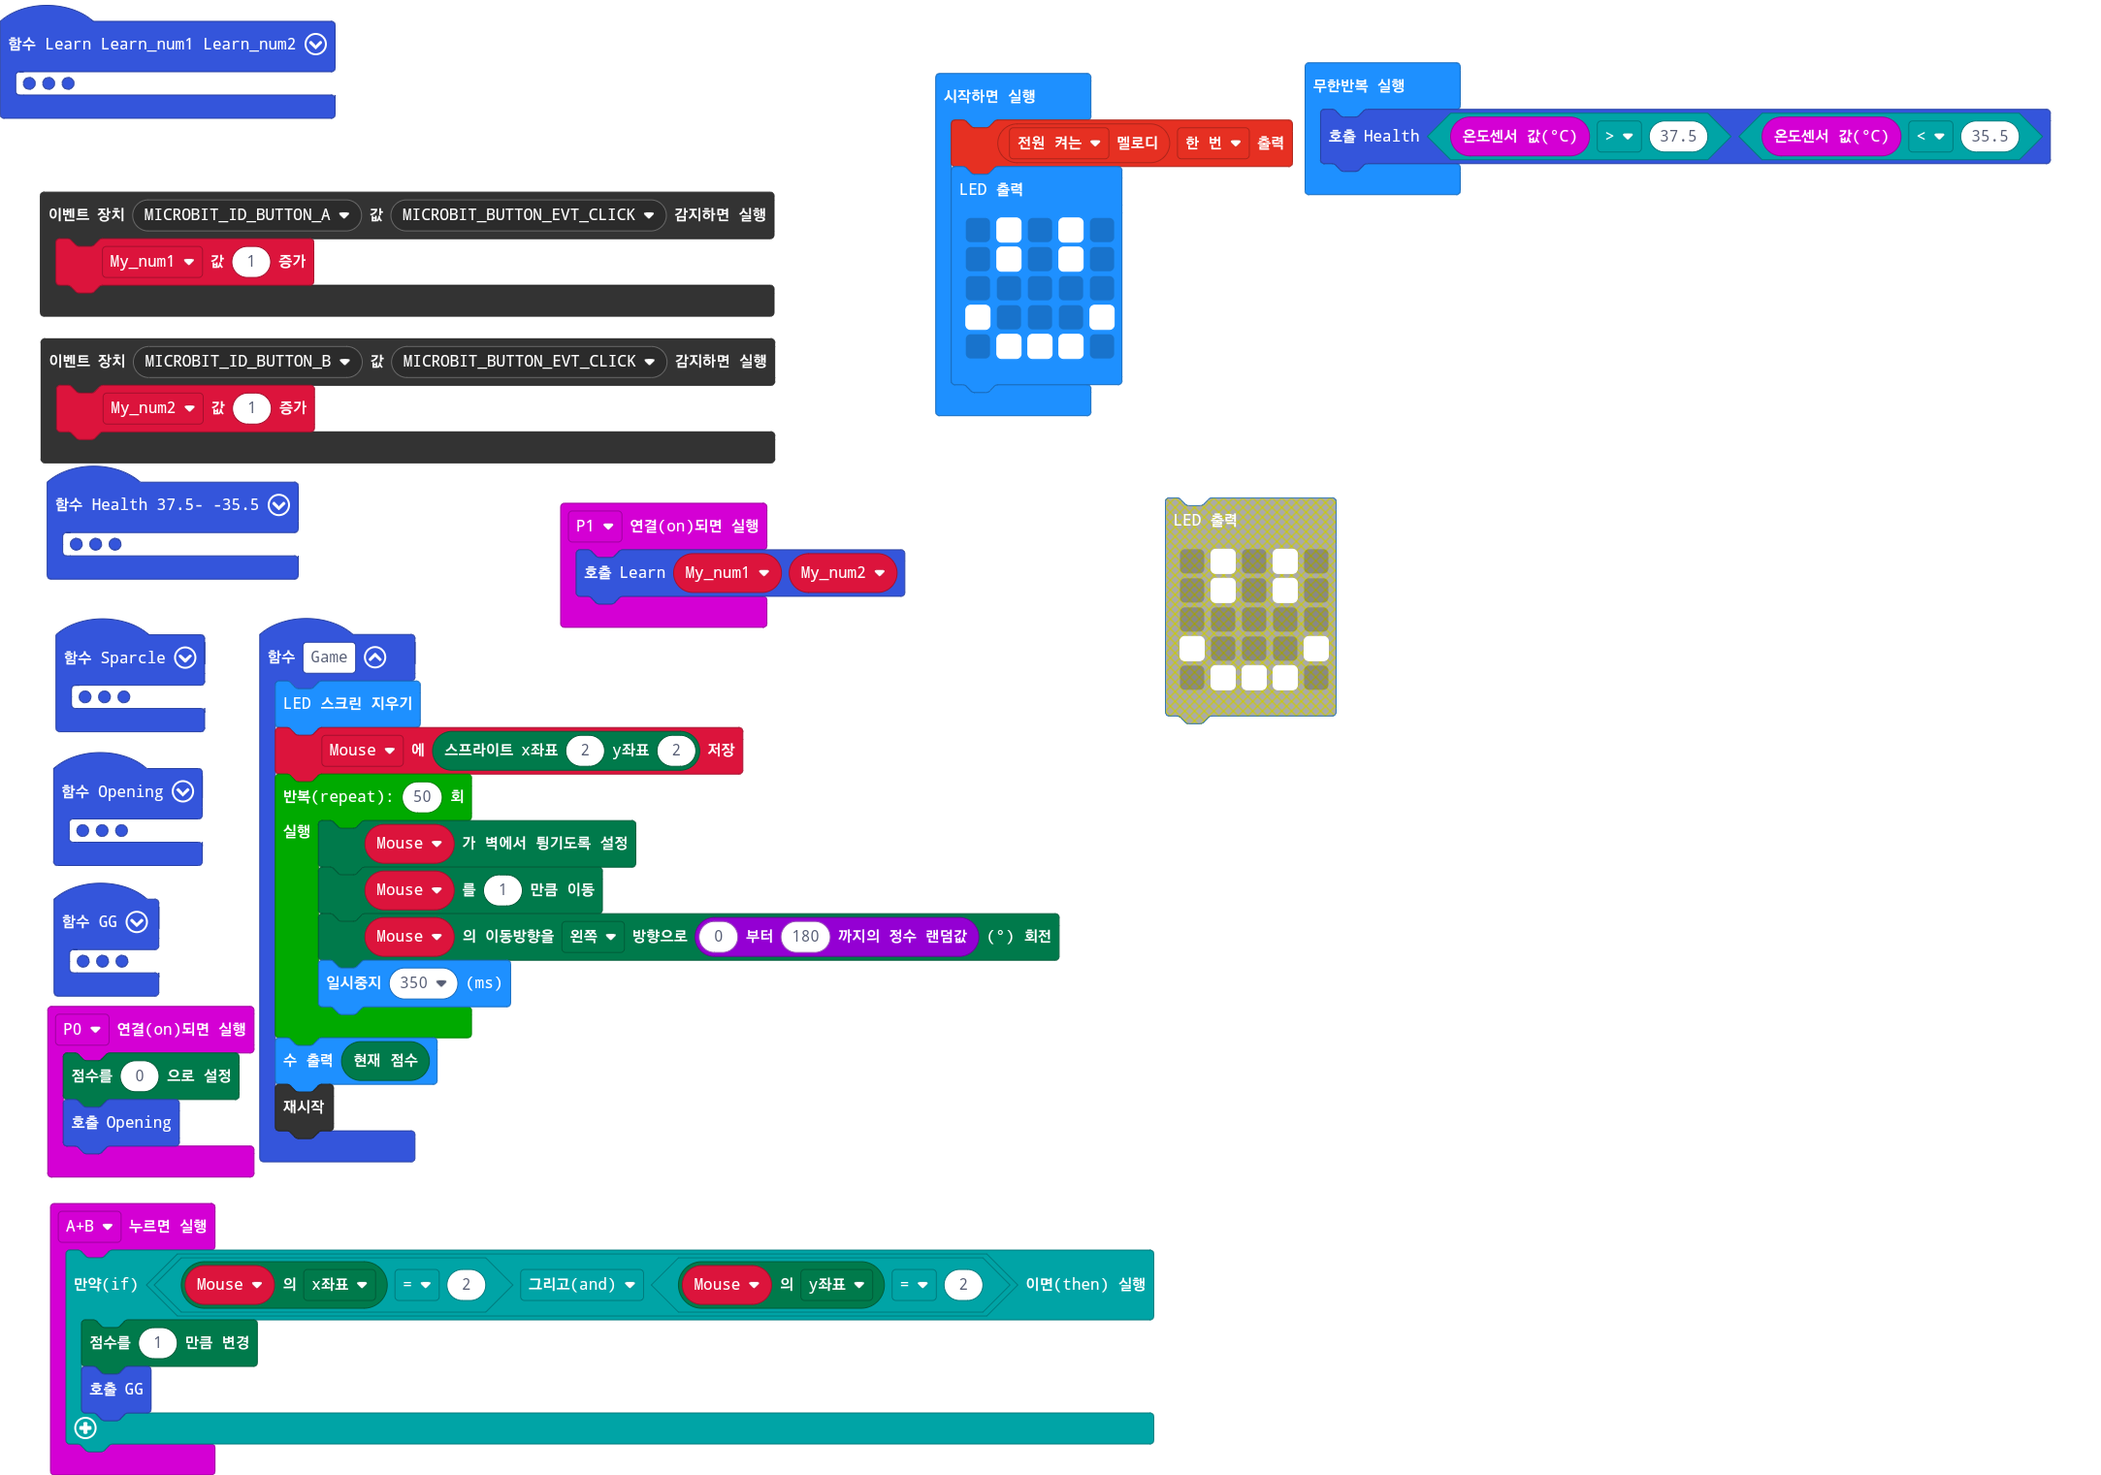
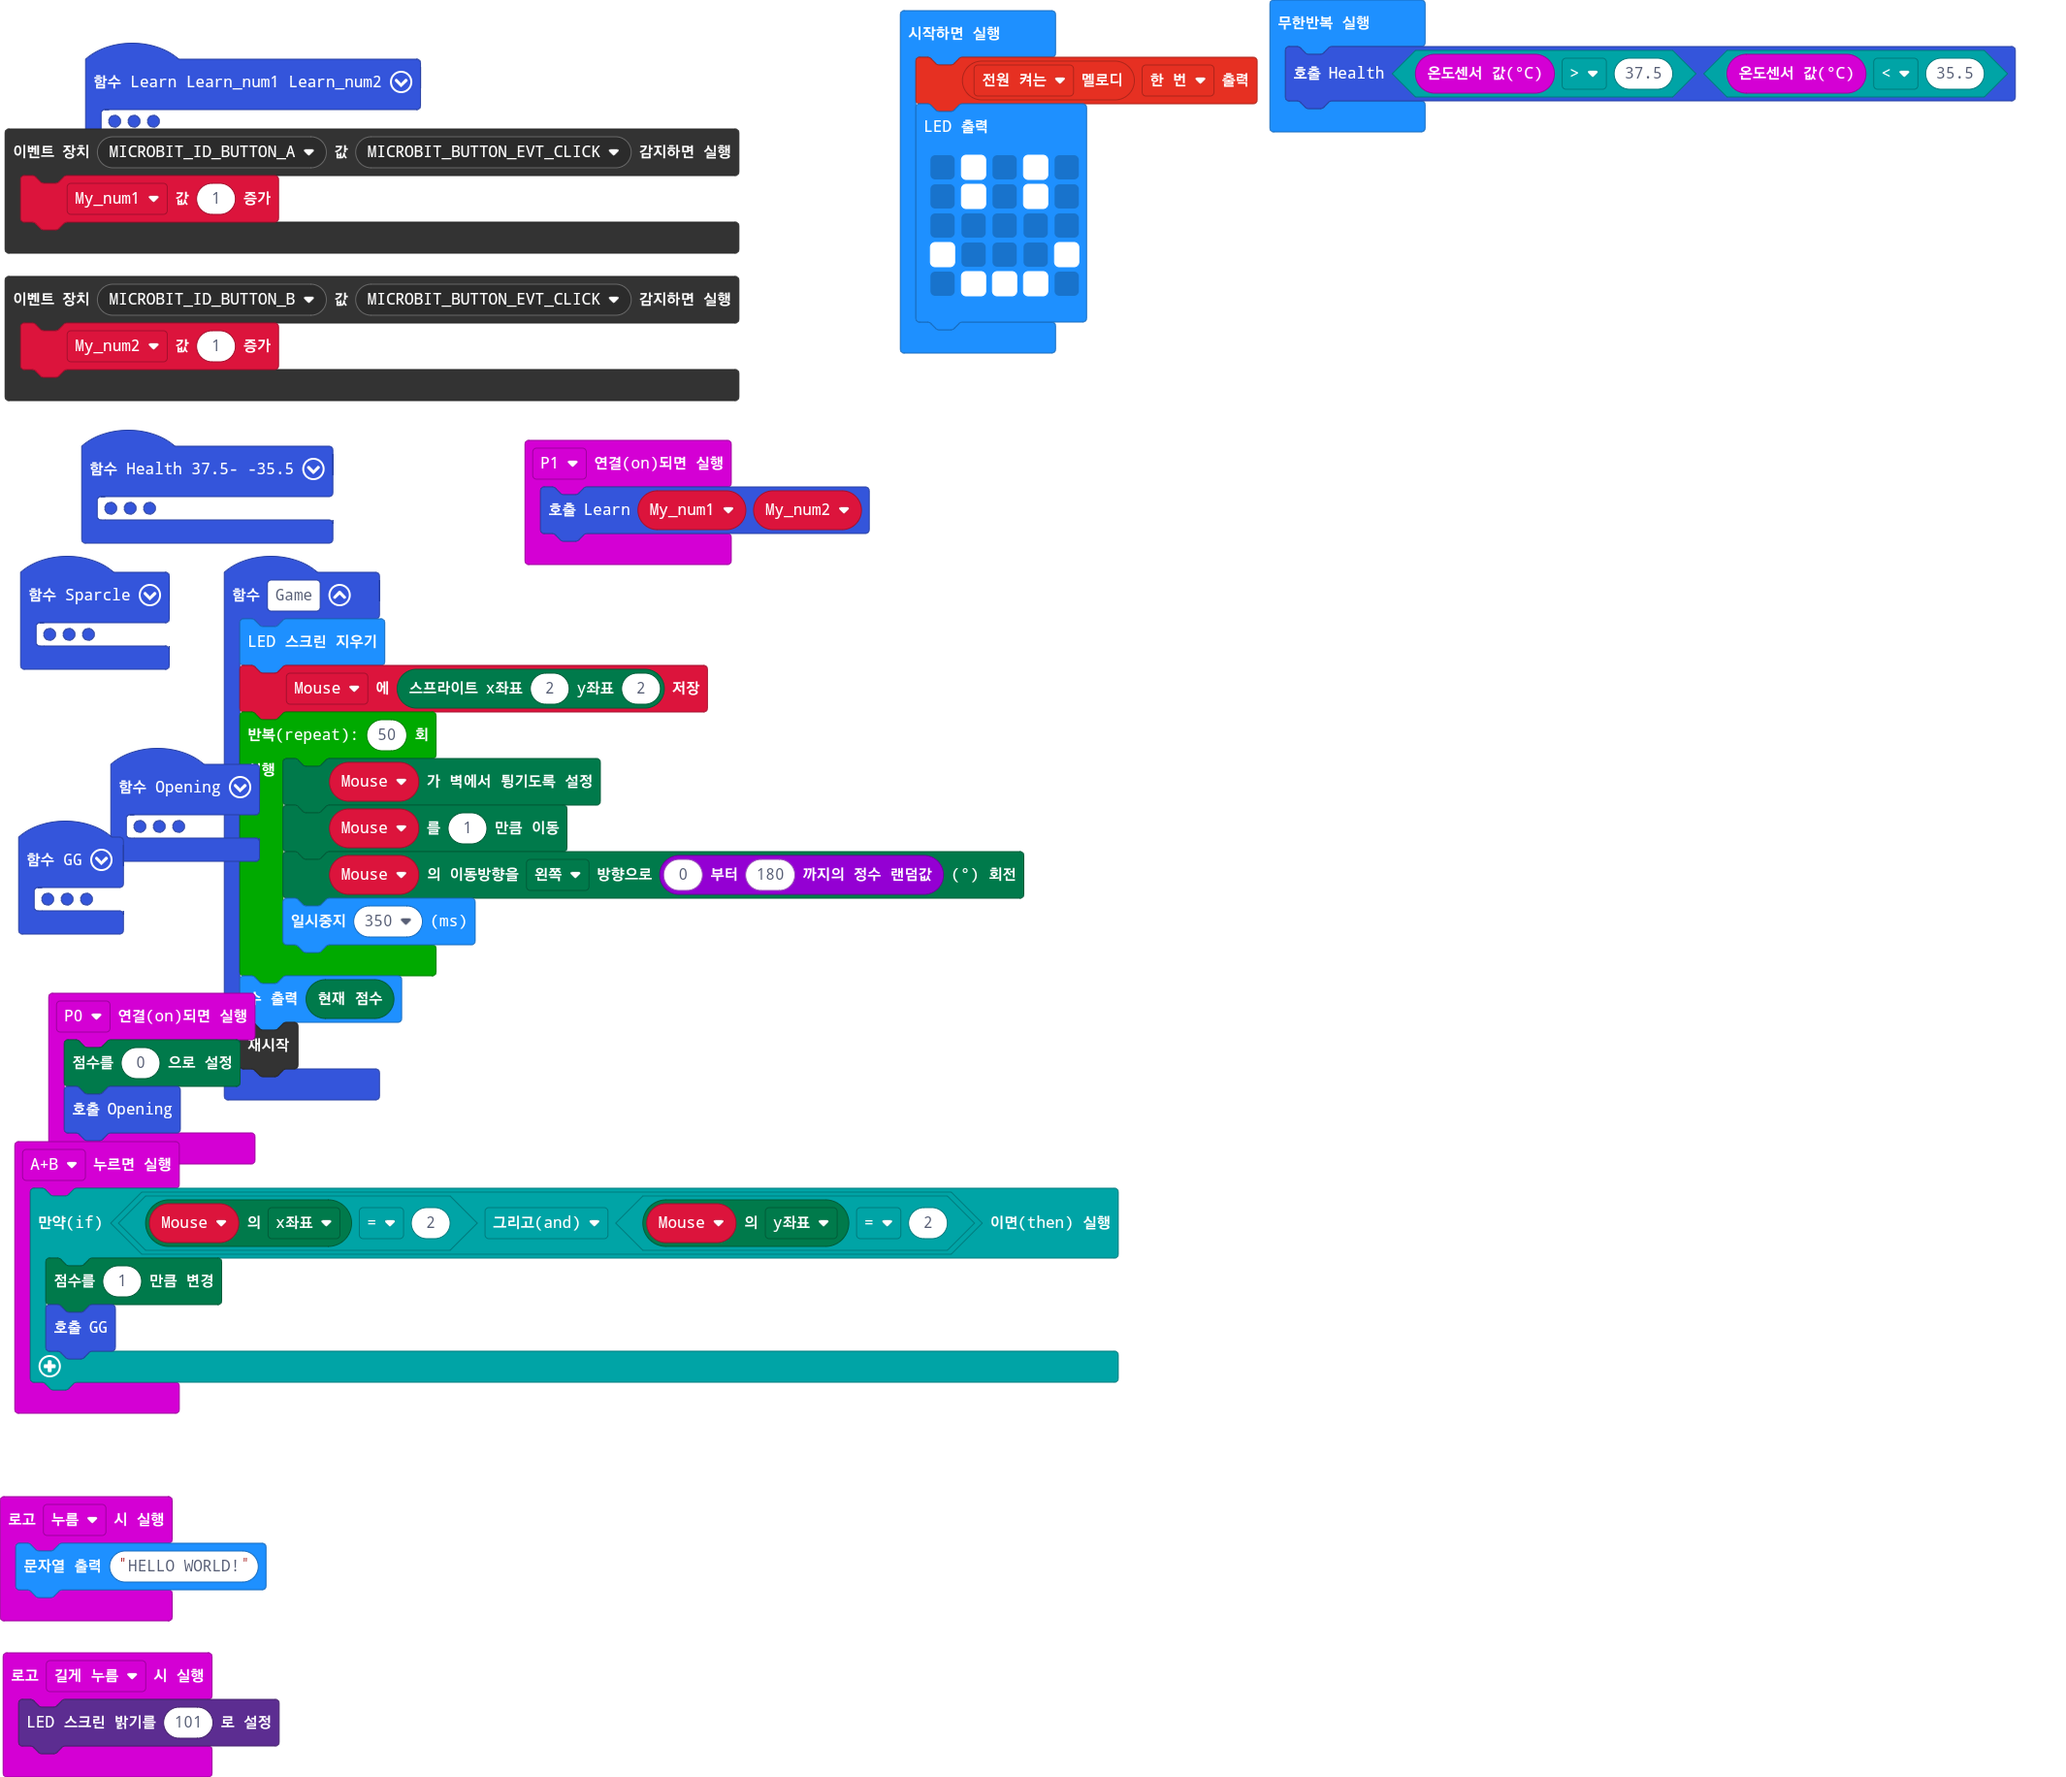
pxt.json, main.blocks, main.ts, main.py 업데이트하기

diff --git a/main.ts b/main.ts
@@ -14,6 +14,9 @@ function Game () {
     basic.showNumber(game.score())
     control.reset()
 }
+input.onLogoEvent(TouchButtonEvent.Pressed, function () {
+    basic.showString("HELLO WORLD!")
+})
 function Sparcle () {
     for (let index = 0; index < 2; index++) {
         soundExpression.sad.playUntilDone()
@@ -80,6 +83,8 @@ function Opening () {
     Game()
 }
 function Learn (Learn_num1: number, Learn_num2: number) {
+    My_num1 = 0
+    My_num2 = 0
     basic.clearScreen()
     basic.showNumber(Learn_num1)
     basic.showString("X")
@@ -101,6 +106,9 @@ input.onPinPressed(TouchPin.P1, function () {
 function GG () {
     basic.showIcon(IconNames.SmallHeart)
 }
+input.onLogoEvent(TouchButtonEvent.LongPressed, function () {
+    led.setBrightness(101)
+})
 function Health (_375: boolean, _355: boolean) {
     if (input.temperature() >= 35.6 && input.temperature() <= 37.4) {
     	

diff --git a/main.py b/main.py
@@ -1,0 +1,145 @@
+def on_pin_pressed_p0():
+    game.set_score(0)
+    Opening()
+input.on_pin_pressed(TouchPin.P0, on_pin_pressed_p0)
+
+def Game():
+    global Mouse
+    basic.clear_screen()
+    Mouse = game.create_sprite(2, 2)
+    for index in range(50):
+        Mouse.if_on_edge_bounce()
+        Mouse.move(1)
+        Mouse.turn(Direction.LEFT, randint(0, 180))
+        basic.pause(350)
+    basic.show_number(game.score())
+    control.reset()
+
+def on_logo_pressed():
+    basic.show_string("HELLO WORLD!")
+input.on_logo_event(TouchButtonEvent.PRESSED, on_logo_pressed)
+
+def Sparcle():
+    for index2 in range(2):
+        soundExpression.sad.play_until_done()
+        basic.show_leds("""
+            . . # . .
+                        . . # . .
+                        . . # . .
+                        . . . . .
+                        . . # . .
+        """)
+        basic.pause(100)
+    basic.clear_screen()
+
+def on_microbit_id_button_b_evt_click():
+    global My_num2
+    My_num2 += 1
+control.on_event(EventBusSource.MICROBIT_ID_BUTTON_B,
+    EventBusValue.MICROBIT_BUTTON_EVT_CLICK,
+    on_microbit_id_button_b_evt_click)
+
+def on_microbit_id_button_a_evt_click():
+    global My_num1
+    My_num1 += 1
+control.on_event(EventBusSource.MICROBIT_ID_BUTTON_A,
+    EventBusValue.MICROBIT_BUTTON_EVT_CLICK,
+    on_microbit_id_button_a_evt_click)
+
+def Opening():
+    basic.show_leds("""
+        . . . . .
+                . . . . .
+                . . # . .
+                . . . . .
+                . . . . .
+    """)
+    basic.show_leds("""
+        . . . . .
+                . . # . .
+                . # # # .
+                . . # . .
+                . . . . .
+    """)
+    basic.show_leds("""
+        . . # . .
+                . . # . .
+                # # # # #
+                . . # . .
+                . . # . .
+    """)
+    basic.show_leds("""
+        . . # . .
+                . # # # .
+                # # # # #
+                . # # # .
+                . . # . .
+    """)
+    basic.show_leds("""
+        . # # # .
+                # # # # #
+                # # # # #
+                # # # # #
+                . # # # .
+    """)
+    basic.show_leds("""
+        # # # # #
+                # # # # #
+                # # # # #
+                # # # # #
+                # # # # #
+    """)
+    Game()
+def Learn(Learn_num1: number, Learn_num2: number):
+    global My_num1, My_num2
+    My_num1 = 0
+    My_num2 = 0
+    basic.clear_screen()
+    basic.show_number(Learn_num1)
+    basic.show_string("X")
+    basic.show_number(Learn_num2)
+    basic.show_string("=")
+    basic.show_number(Learn_num1 * Learn_num2)
+    basic.pause(1000)
+    basic.clear_screen()
+
+def on_button_pressed_ab():
+    if Mouse.get(LedSpriteProperty.X) == 2 and Mouse.get(LedSpriteProperty.Y) == 2:
+        game.add_score(1)
+        GG()
+input.on_button_pressed(Button.AB, on_button_pressed_ab)
+
+def on_pin_pressed_p1():
+    Learn(My_num1, My_num2)
+input.on_pin_pressed(TouchPin.P1, on_pin_pressed_p1)
+
+def GG():
+    basic.show_icon(IconNames.SMALL_HEART)
+
+def on_logo_long_pressed():
+    led.set_brightness(255)
+input.on_logo_event(TouchButtonEvent.LONG_PRESSED, on_logo_long_pressed)
+
+def Health(_375: bool, _355: bool):
+    if input.temperature() >= 35.6 and input.temperature() <= 37.4:
+        pass
+    else:
+        if _375:
+            Sparcle()
+        if _355:
+            Sparcle()
+My_num1 = 0
+My_num2 = 0
+Mouse: game.LedSprite = None
+music.start_melody(music.built_in_melody(Melodies.POWER_UP), MelodyOptions.ONCE)
+basic.show_leds("""
+    . # . # .
+        . # . # .
+        . . . . .
+        # . . . #
+        . # # # .
+""")
+
+def on_forever():
+    Health(input.temperature() > 37.5, input.temperature() < 35.5)
+basic.forever(on_forever)
